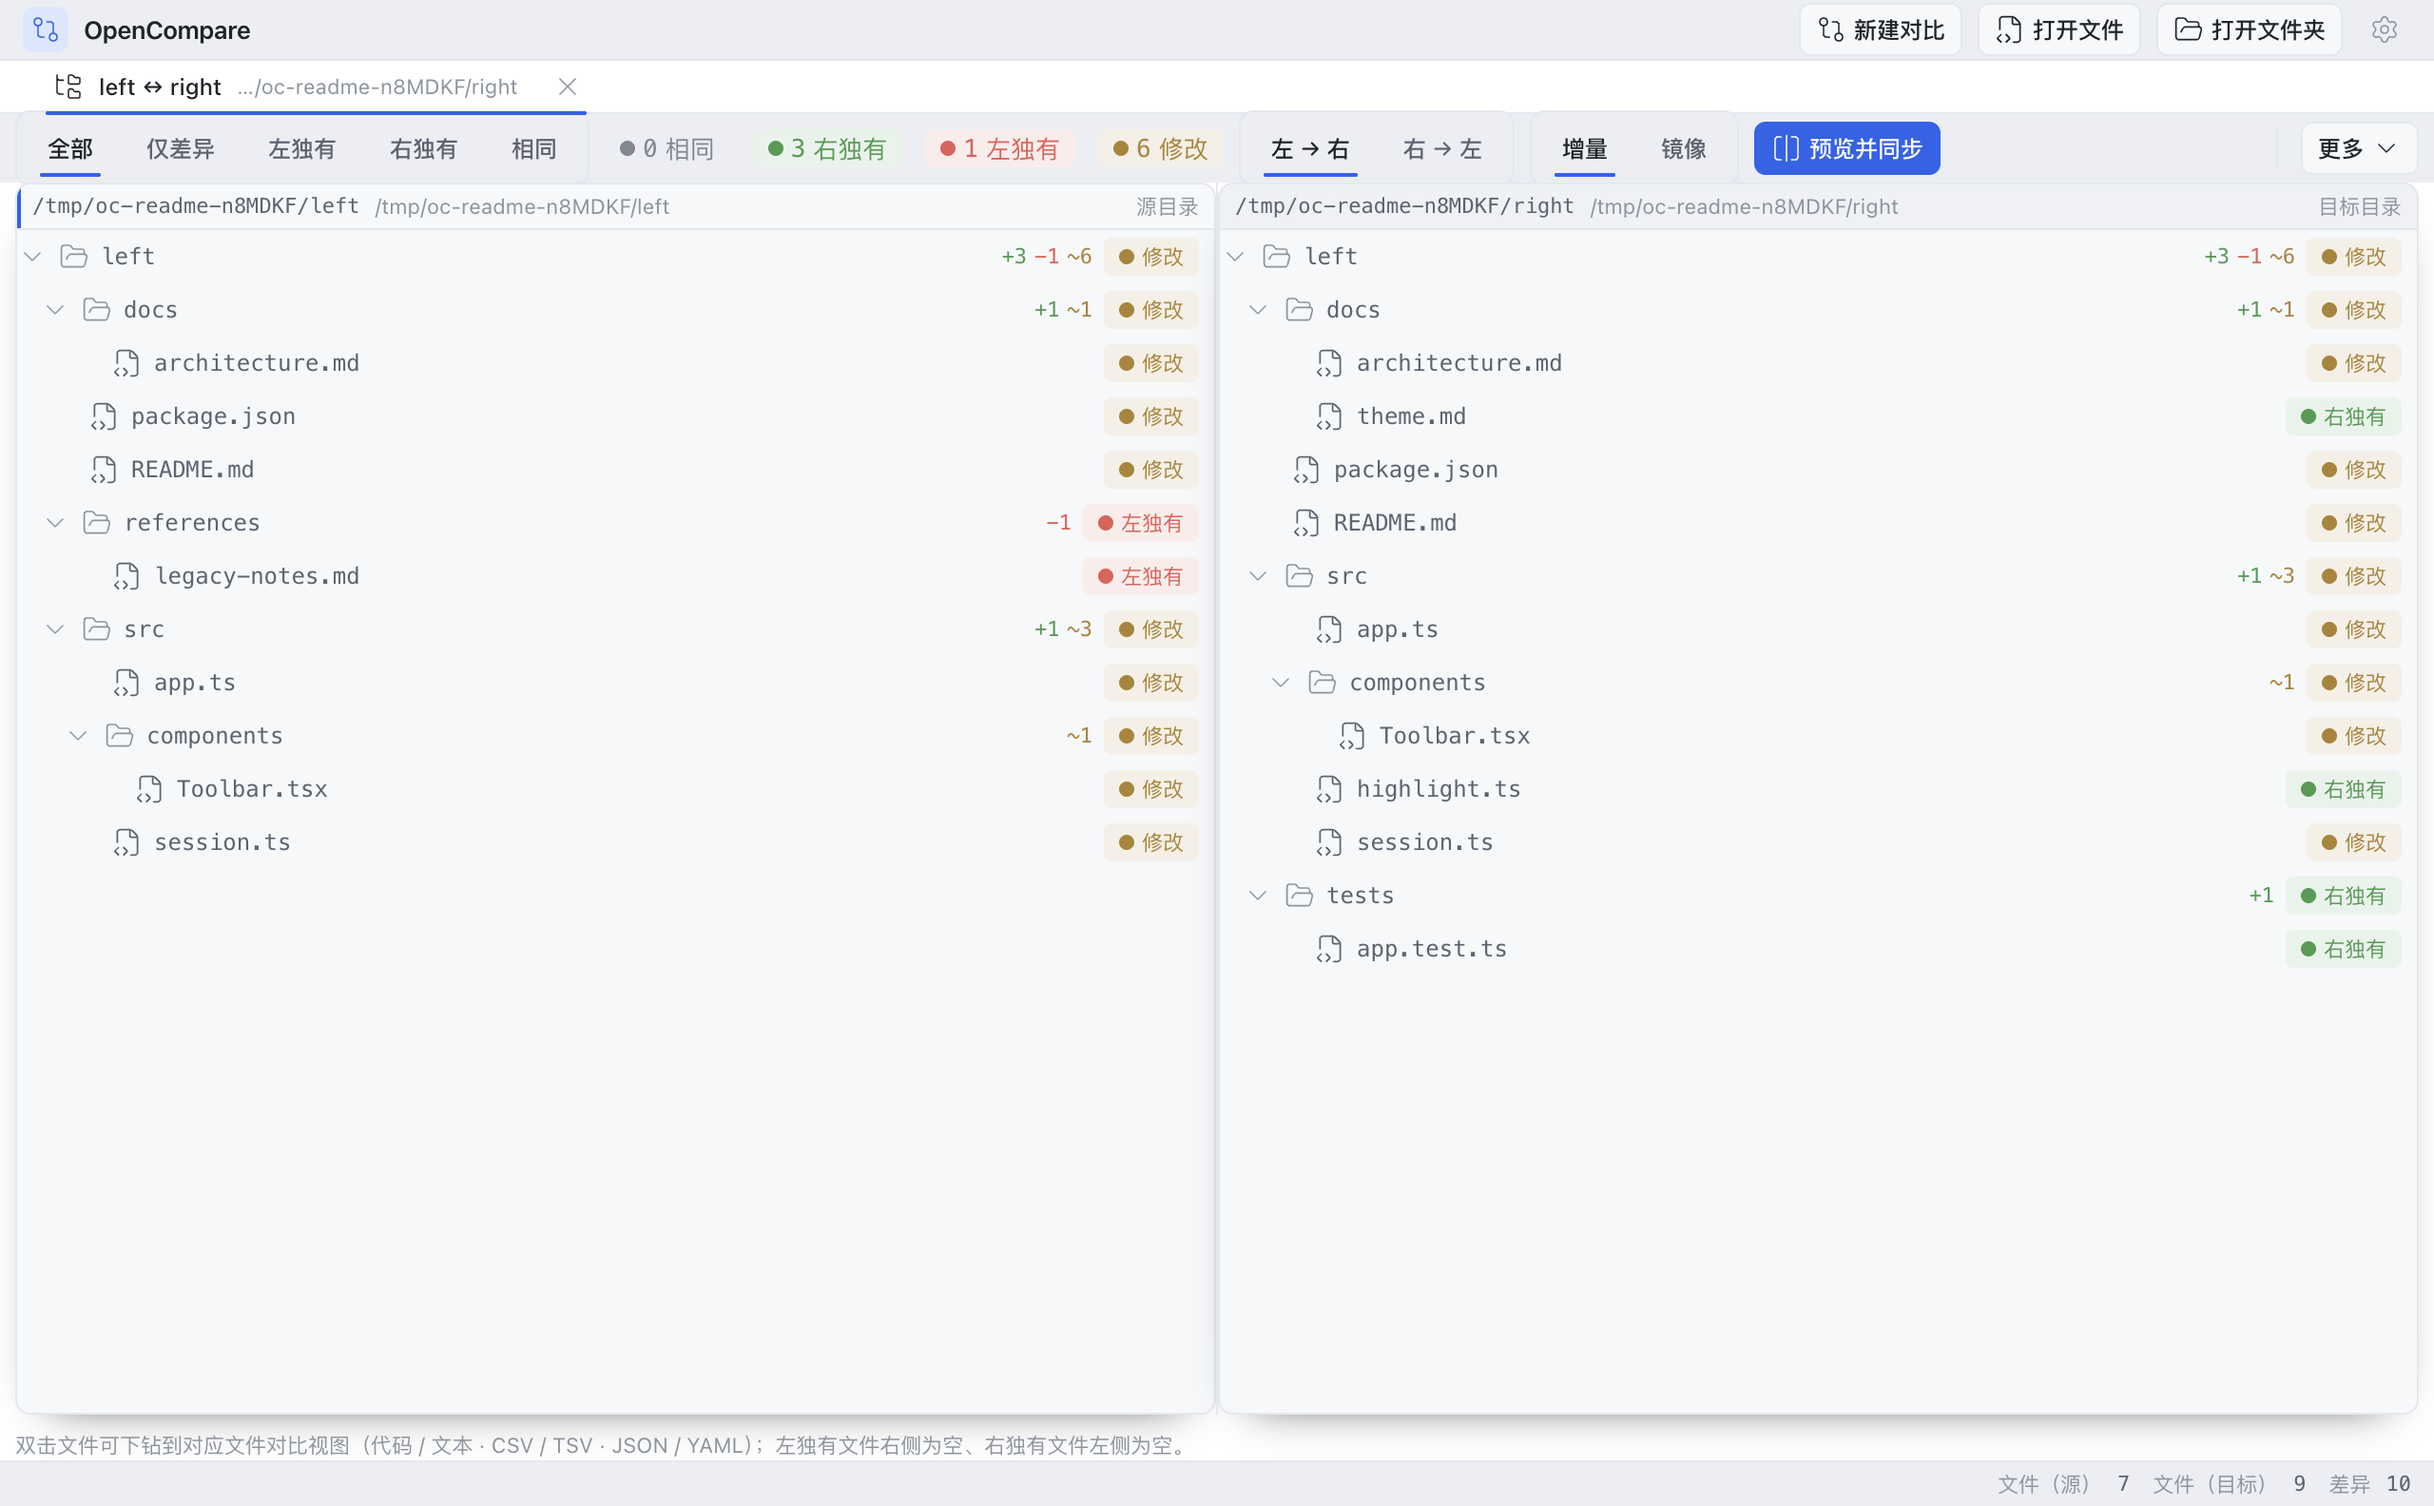
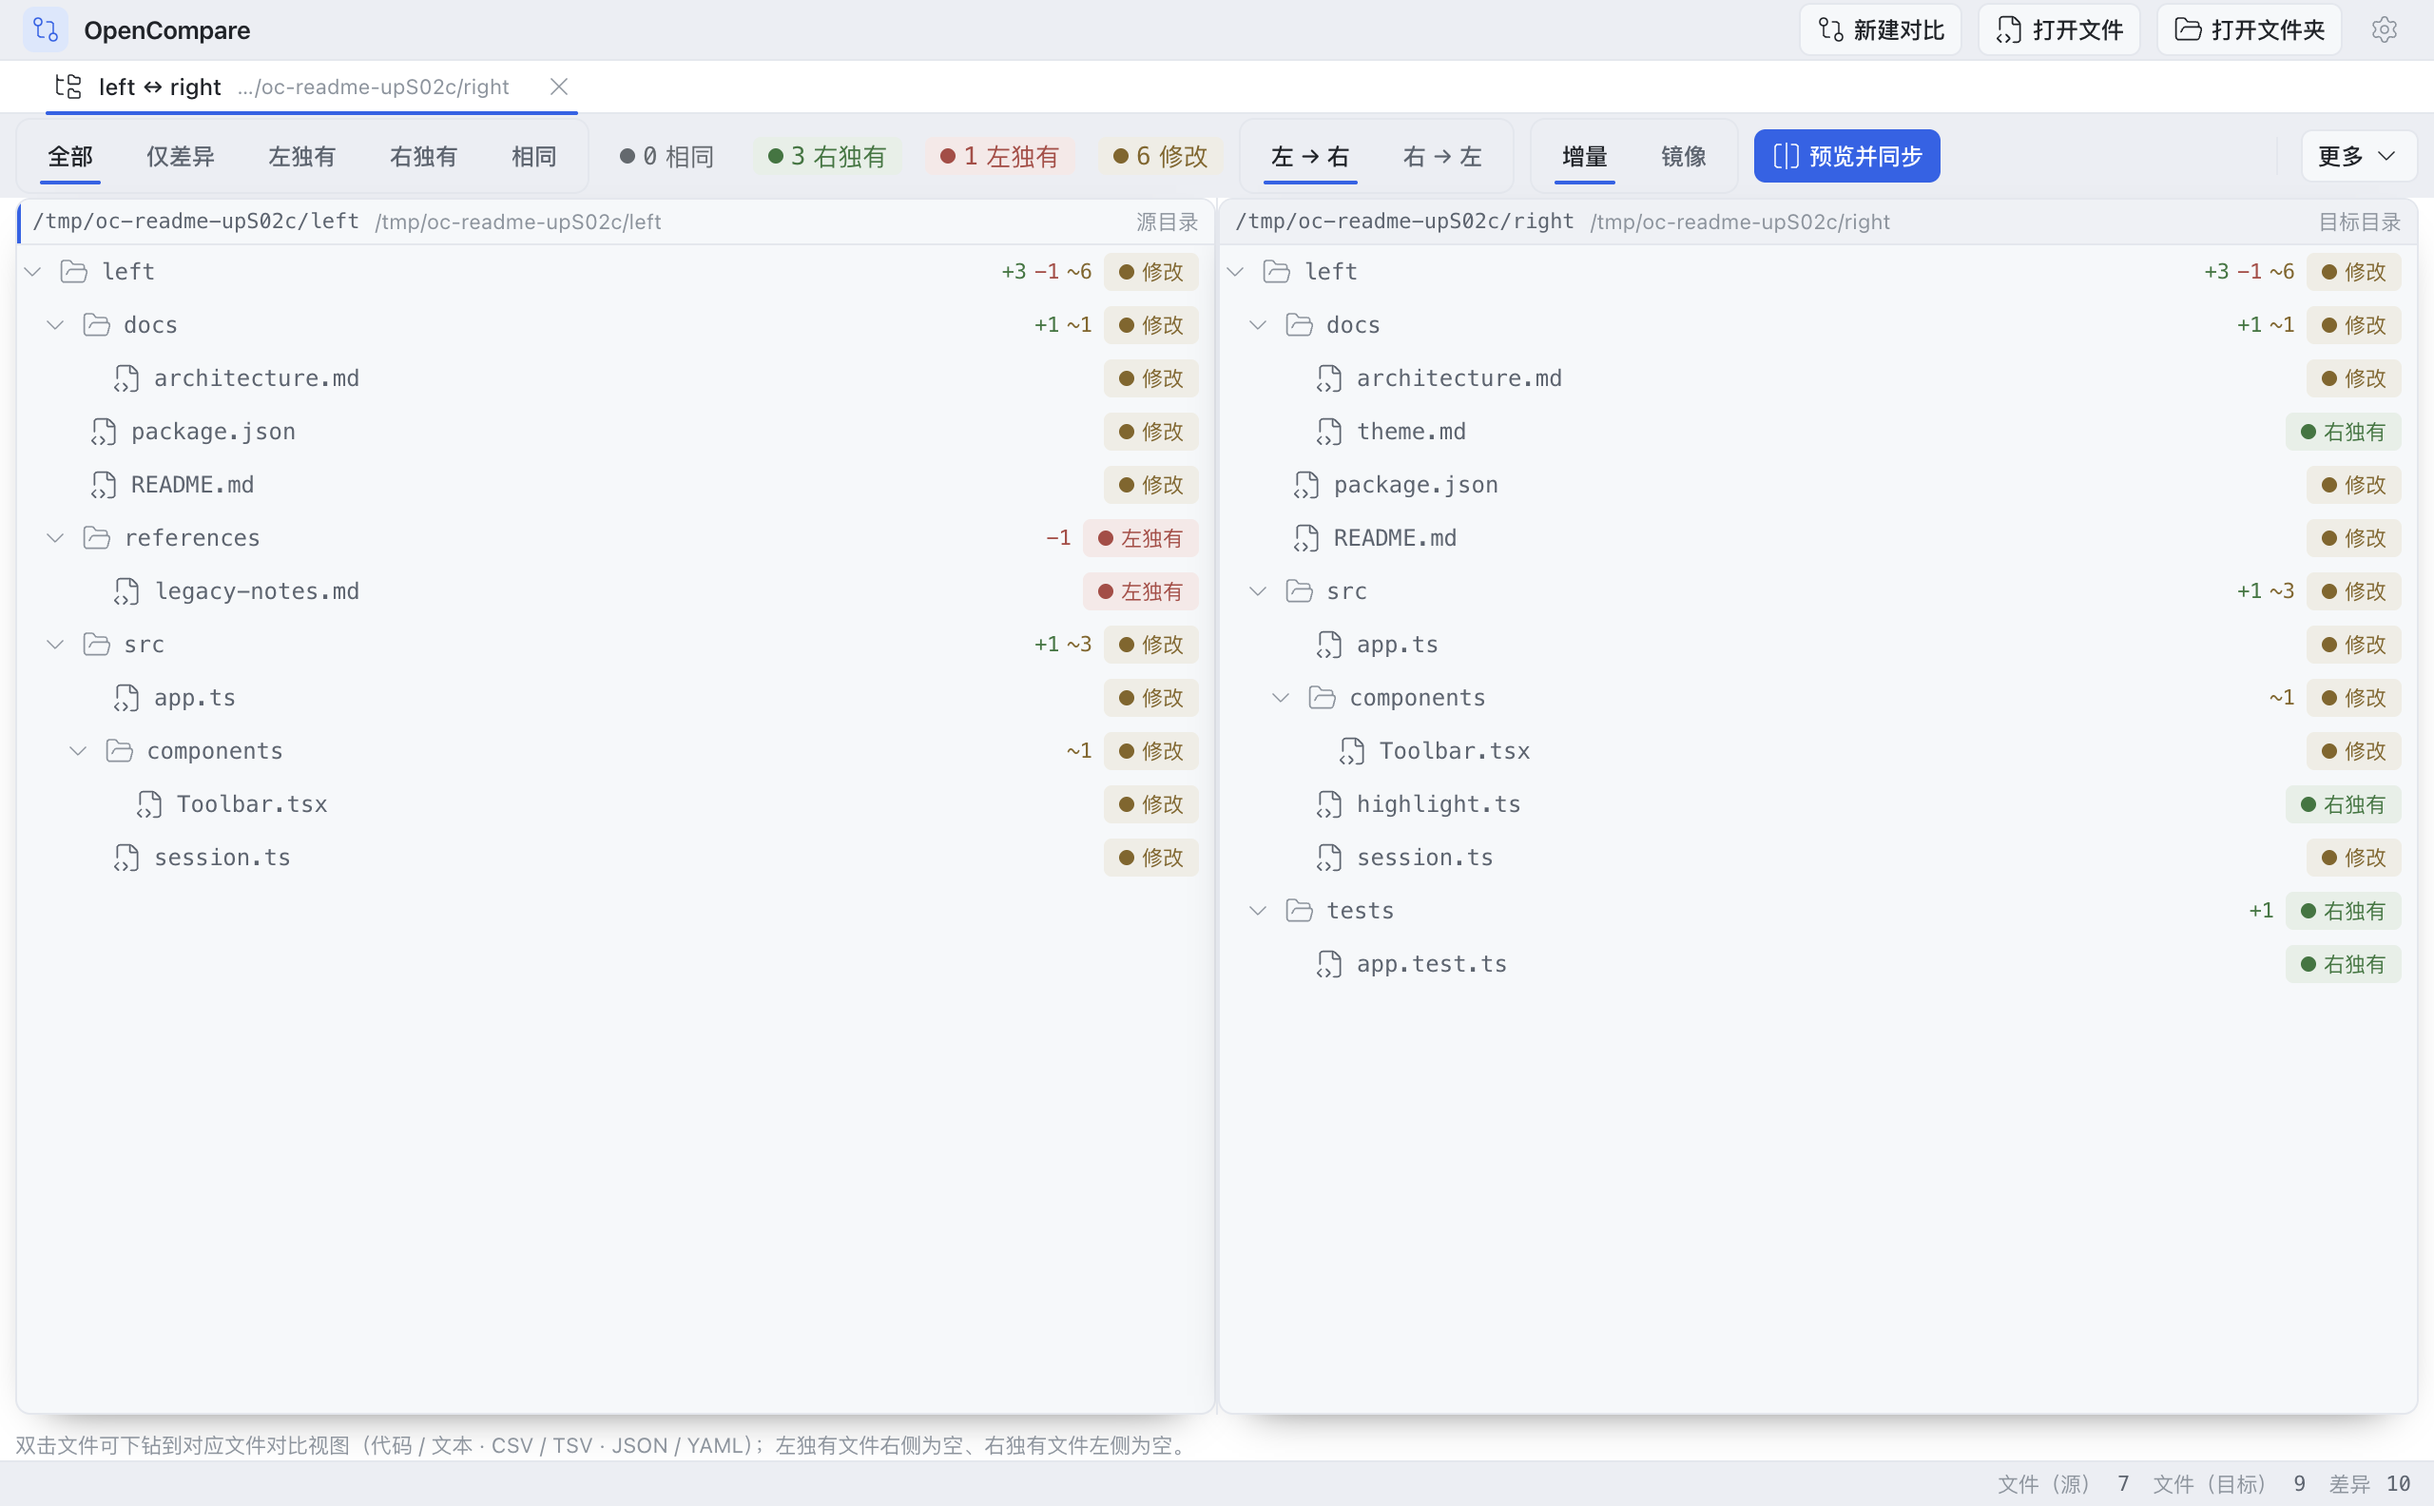
docs(visual): recapture README screenshots after the toolbar model change

Changed region(s): [[0.0, 0.0619, 0.8125, 0.6496], [0.9062, 0.0928, 1.0, 0.6496], [0.1562, 0.0309, 0.2188, 0.0619]]

diff --git a/.munk/baseline/domains/shell-tightening/product.md b/.munk/baseline/domains/shell-tightening/product.md
@@ -81,5 +81,5 @@
 - WI：`wi_intake_c4097ed1a9ec9d00`（修窄窗工具栏溢出与浅色图例对比度，`kind: fix`）
 - 日期：2026-11-05
 - 结果：code_gates passed（29 gates，attempt 002；`pnpm test` 140 files / 2237 passed + 1 skipped / 2238）。
-- 覆盖摘要：`shellLayout.ts` 新增 `DIRECTORY_TOOLBAR_WIDTHS`（zh / en 实测宽度 + 图例 4 位计数预留）、`measureDirectoryToolbar`（阶梯 none → legend → sync → wrap，贪心分行）与 `directoryToolbarRowClasses()`（`flex-wrap` + `min-h-8`，无 `overflow-*` / 无 `:` token）；`DirectoryView` 改读 `useWindowWidth` + 语言并把 `showLabels` / 同步按钮 `aria-label` 接到模型；`TOOLBAR_ROWS` 目录行控件宽度改由 zh 表供给；实测 zh@960/1024 折叠到 legend / sync，en@960 换 2 行（band 72），1024 / 1280 / 1440 / 1920 zh 仍单行 36px 且 zh@1280 保留状态词。同批把亮色五个 `--color-diff-*` 前景加深到对 chip 底 ≥ 4.5:1（该半边归域 `theme`）。
+- 覆盖摘要：`shellLayout.ts` 新增 `DIRECTORY_TOOLBAR_WIDTHS`（zh / en 实测宽度 + 图例 4 位计数预留）、`measureDirectoryToolbar`（阶梯 none → legend → sync → wrap，贪心分行）与 `directoryToolbarRowClasses()`（`flex-wrap` + `min-h-8`，无 `overflow-*` / 无 `:` token）；`DirectoryView` 改读 `useWindowWidth` + 语言并把 `showLabels` / 同步按钮 `aria-label` 接到模型；`TOOLBAR_ROWS` 目录行控件宽度改由 zh 表供给；实测 zh@960/1024 折叠到 legend / sync，en@960 换 2 行（band 72），1024 / 1280 / 1440 / 1920 zh 仍单行 36px 且 zh@1280 保留状态词。同批把亮色五个 `--color-diff-*` 前景加深到对 chip 底 ≥ 4.5:1（该半边归域 `theme`）。1280 zh 画面像素确有变化，已按截图纪律重拍：`pnpm screenshots` 产 244495 / 297855 字节两张 PNG，`docs/screenshots.md` 记录 captured commit `ade5a1f` 与新 sha256。
 - 注：本 WI change pack 仅 `prd.md`（无 `tests/cases/**` / `tech.md` / `ux/**`），无用例可 copy、无 tech / ux 手合。**被推翻的假设**：① 「视图工具条带恒 1 行」不再成立——目录行允许换行，band 高度改按行数派生；② `controlPresentation('legend', 'compact')` 由 `label` 改为 `icon-only`，DOM 里对 `view-toolbar` 的 `flex-wrap` 禁令反转为「必须 `flex-wrap` 且无横向滚动」；③ `TOOLBAR_ROWS` 的目录行宽度不再手写数字，改引 `DIRECTORY_TOOLBAR_WIDTHS`。后续若改图例文案长度或计数位数，只改宽度表，别在 JSX 分档。

diff --git a/docs/screenshots.md b/docs/screenshots.md
@@ -7,7 +7,7 @@ used.
 
 ## Captured commit
 
-- commit: `3b8cfe31af47208a048f3b7918d1b5df31ff5c54`
+- commit: `ade5a1f199c51f5d966dd8ba1c59430a918ae411`
 - both images were rebuilt on a clean working tree at exactly that commit
   (the tracked tree was clean — `git status --porcelain` showed only the
   documentation files added after the capture — and `HEAD` equalled this commit
@@ -24,17 +24,17 @@ used.
 ## Rebuild evidence
 
 The rebuild on the clean tree above printed
-`wrote docs/assets/opencompare-workbench.png (240392 bytes)` and
-`wrote docs/assets/opencompare-file-diff.png (297377 bytes)`. Both rebuilt files
+`wrote docs/assets/opencompare-workbench.png (244495 bytes)` and
+`wrote docs/assets/opencompare-file-diff.png (297855 bytes)`. Both rebuilt files
 differ from the previously committed images (`git diff` reports binary changes
 for both), so the rebuilt PNGs replaced the old ones — the rebuild followed the
-shell-tightening change (32 / 28 / 36 / 24 band, one-row toolbars, 28px tree rows
-and 22px code rows).
+narrow-window directory toolbar model (collapsible legend copy, wrapping row) and
+the light-theme legend contrast hardening (dark tokens unchanged).
 
 | Image | Previous sha256 | Rebuilt sha256 (committed) |
 | --- | --- | --- |
[4 lines of base64/hex data omitted]
 
 `src/main/release-artifacts-and-brand.test.ts` guards this record: the captured
 commit must resolve, be an ancestor of `HEAD`, and leave `src/renderer` with a
